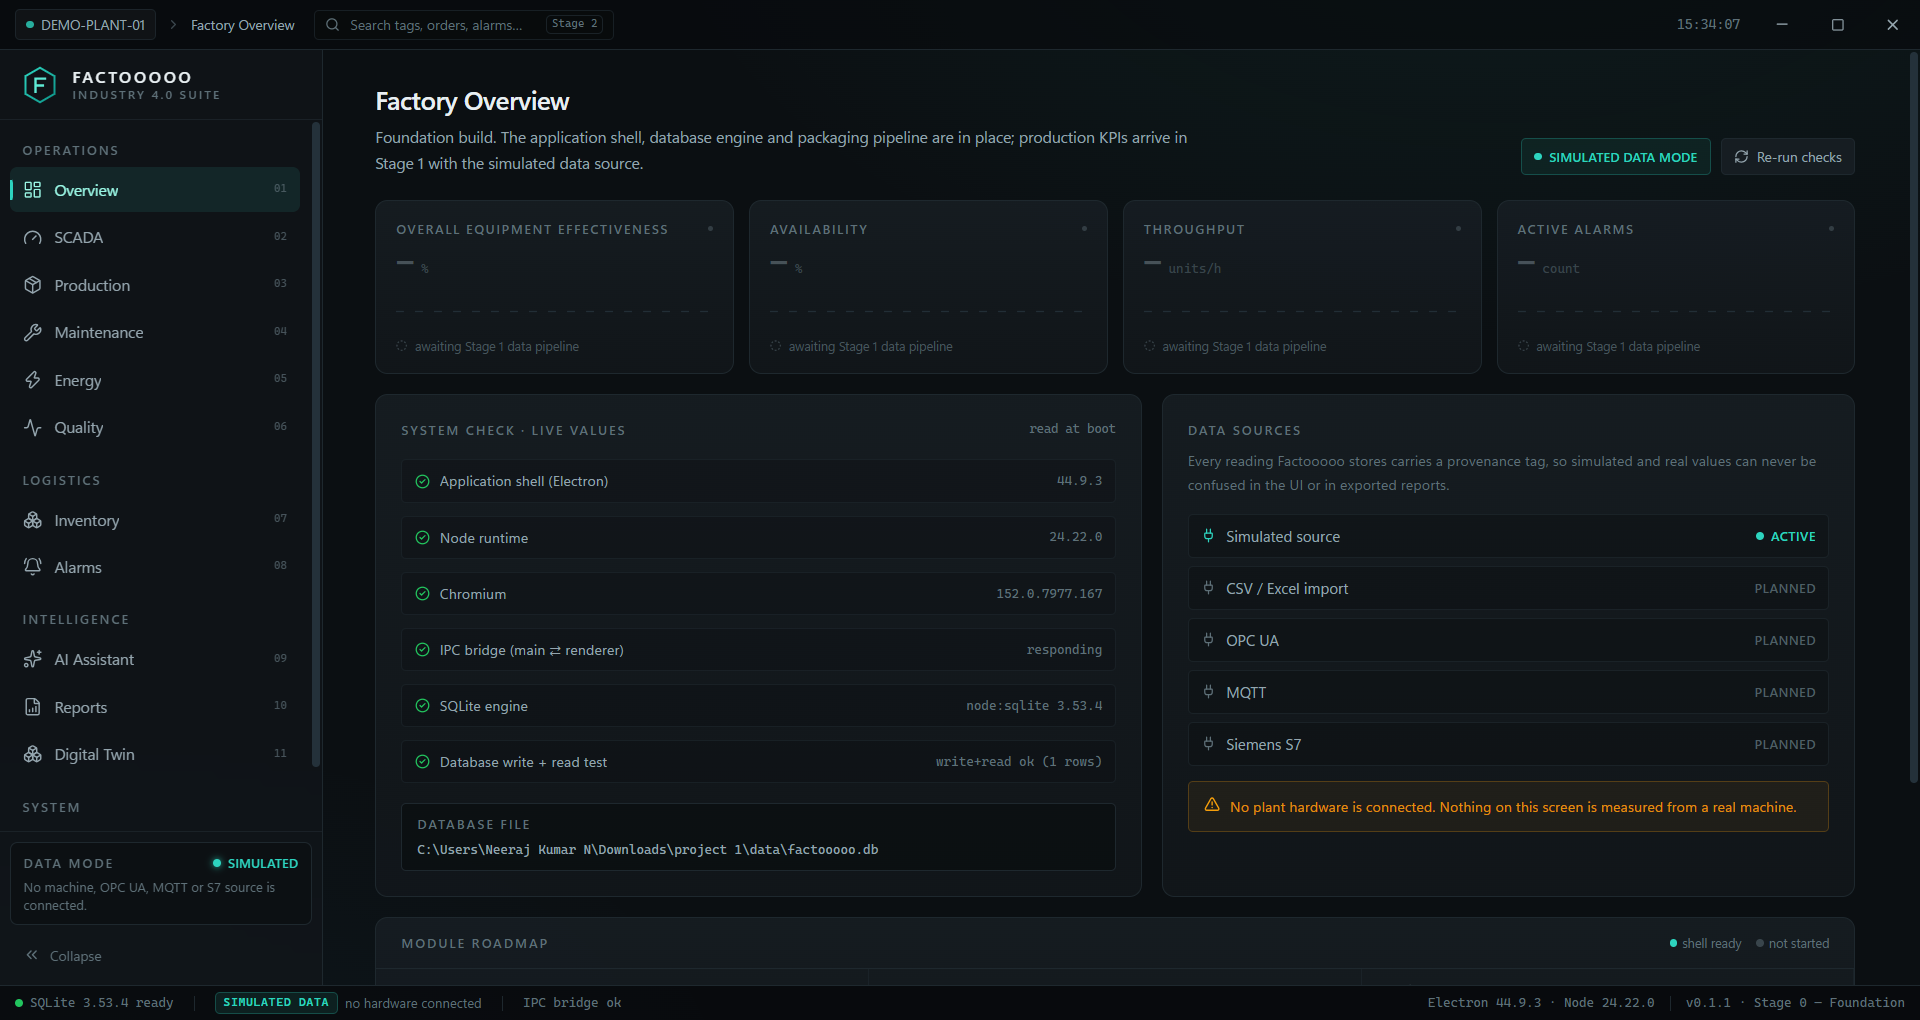
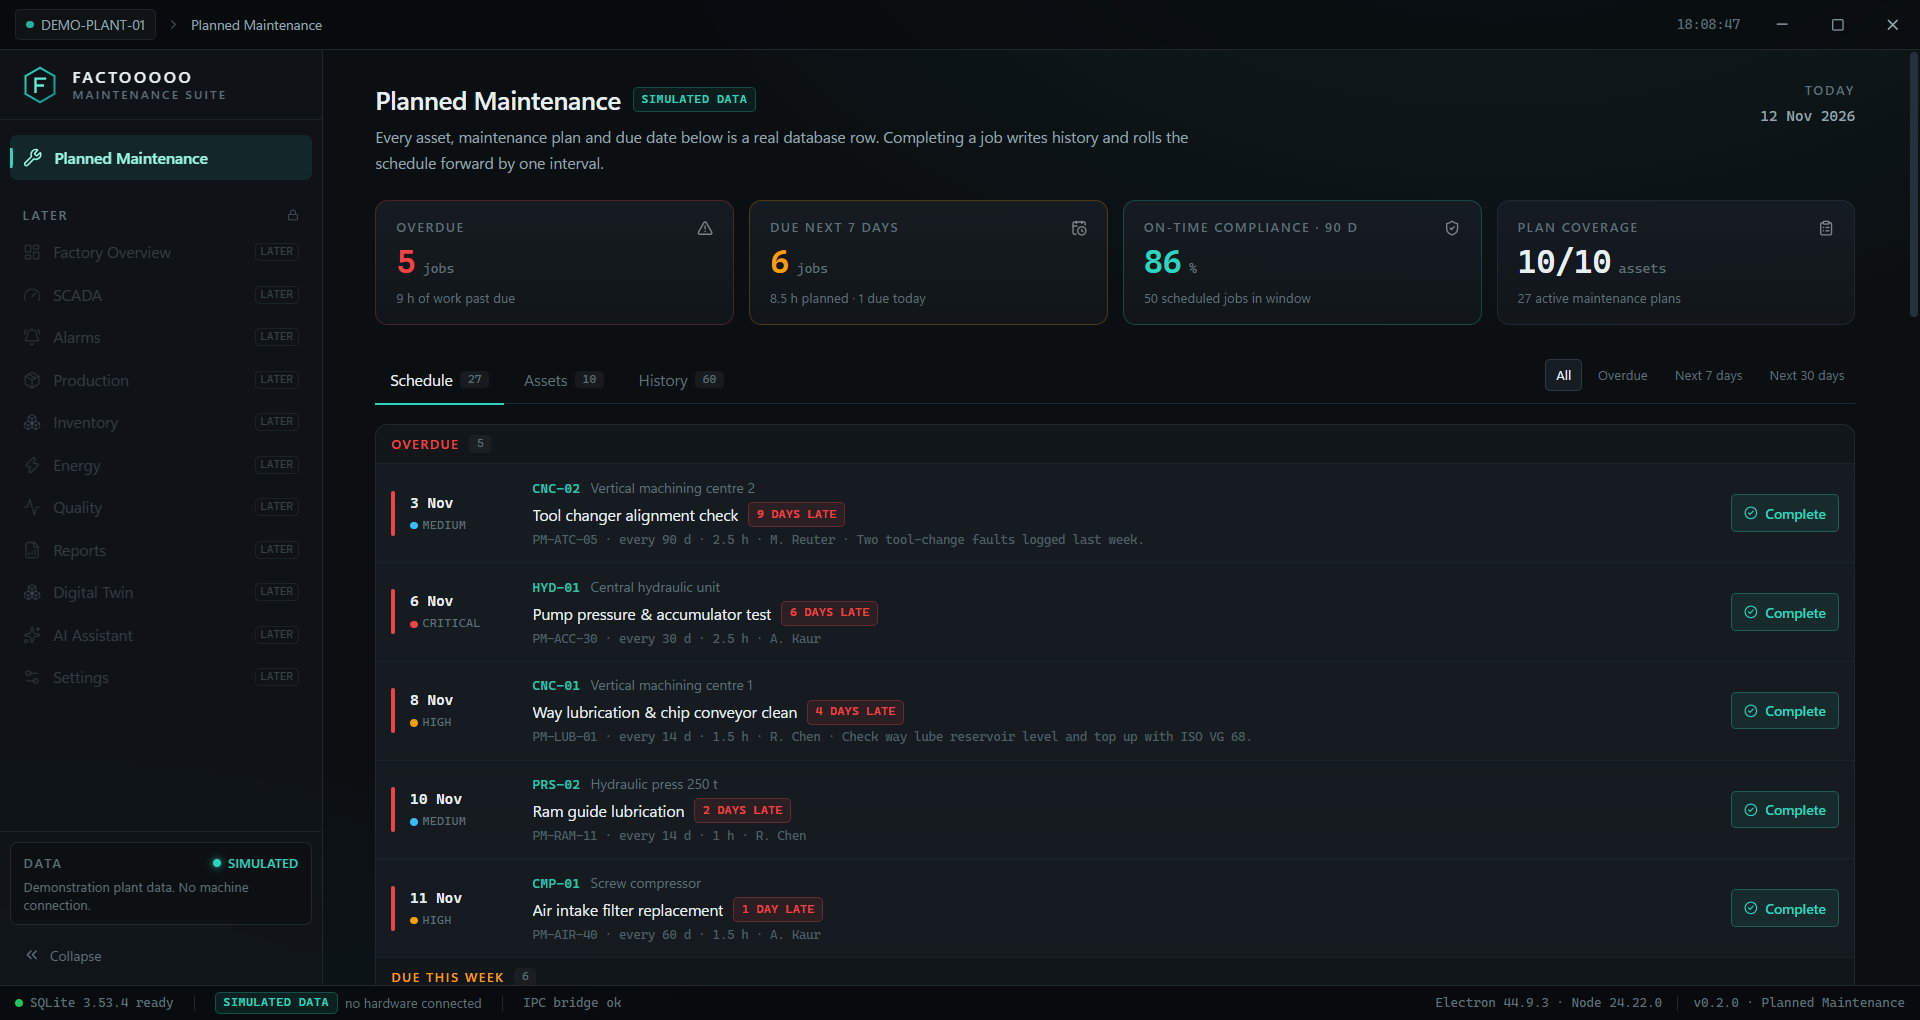
point the preview page at the maintenance build (v0.2.0)
The product narrowed to planned maintenance, so the page now leads with what
the app actually does, swaps the screenshot for the schedule screen, and
updates both download links, sizes and SHA-256 values to the 0.2.0 binaries.

diff --git a/index.html b/index.html
@@ -3,8 +3,8 @@
   <head>
     <meta charset="utf-8" />
     <meta name="viewport" content="width=device-width, initial-scale=1" />
-    <title>Factooooo — Preview Build</title>
-    <meta name="description" content="Download the Factooooo preview build for Windows 11. Industrial monitoring and management, built on Electron." />
+    <title>Factooooo — Planned Maintenance for Windows</title>
+    <meta name="description" content="Download Factooooo: a Windows application for planned maintenance. Assets, intervals, due dates and completion history in one focused screen." />
     <style>
       :root {
         --void: #07090b;
@@ -17,7 +17,6 @@
         --dim: #94a5ae;
         --mute: #5e7078;
         --teal: #2dd4bf;
-        --teal-soft: #99f6e4;
         --amber: #f59e0b;
       }
       * { box-sizing: border-box; }
@@ -32,7 +31,6 @@
         font-size: 15px;
         line-height: 1.55;
         -webkit-font-smoothing: antialiased;
-        min-height: 100vh;
       }
       .wrap { max-width: 940px; margin: 0 auto; padding: 44px 24px 64px; }
       .mono { font-family: 'Cascadia Mono', Consolas, ui-monospace, monospace; font-variant-numeric: tabular-nums; }
@@ -43,18 +41,15 @@
       .sub { font-size: 10.5px; letter-spacing: 0.19em; text-transform: uppercase; color: var(--mute); margin-top: 3px; }
       .chip {
         margin-left: auto; display: inline-flex; align-items: center; gap: 7px;
-        border: 1px solid rgba(245, 158, 11, 0.35); background: rgba(245, 158, 11, 0.09);
-        color: var(--amber); border-radius: 999px; padding: 5px 12px;
+        border: 1px solid rgba(45, 212, 191, 0.3); background: rgba(45, 212, 191, 0.08);
+        color: var(--teal); border-radius: 999px; padding: 5px 12px;
         font-size: 11px; font-weight: 600; letter-spacing: 0.08em; text-transform: uppercase;
       }
       .dot { width: 6px; height: 6px; border-radius: 50%; background: currentColor; }
 
-      h1 {
-        font-size: clamp(30px, 5vw, 44px); line-height: 1.1; letter-spacing: -0.025em;
-        margin: 44px 0 0; font-weight: 650;
-      }
+      h1 { font-size: clamp(30px, 5vw, 42px); line-height: 1.1; letter-spacing: -0.025em; margin: 44px 0 0; font-weight: 650; }
       h1 span { color: var(--teal); }
-      .lead { color: var(--dim); max-width: 620px; margin: 14px 0 0; font-size: 16px; }
+      .lead { color: var(--dim); max-width: 640px; margin: 14px 0 0; font-size: 16px; }
 
       .panel {
         background: linear-gradient(180deg, rgba(22, 29, 34, 0.92), rgba(17, 22, 26, 0.92));
@@ -62,17 +57,13 @@
       }
 
       .shots { margin-top: 32px; }
-      .shots img {
-        width: 100%; height: auto; display: block; border-radius: 12px;
-        border: 1px solid var(--line-strong);
-        box-shadow: 0 24px 60px -20px rgba(0, 0, 0, 0.75);
-      }
-      .cap { margin-top: 9px; font-size: 10.5px; color: var(--mute); letter-spacing: 0.04em; }
+      .shots img { width: 100%; height: auto; display: block; border-radius: 12px; border: 1px solid var(--line-strong); box-shadow: 0 24px 60px -20px rgba(0, 0, 0, 0.75); }
+      .cap { margin-top: 9px; font-size: 10.5px; color: var(--mute); }
 
       .downloads { display: grid; grid-template-columns: 1.1fr 0.9fr; gap: 14px; margin-top: 24px; }
-      @media (max-width: 720px) { .downloads { grid-template-columns: 1fr; } }
+      @media (max-width: 720px) { .downloads, .cols { grid-template-columns: 1fr; } }
       .dl { padding: 20px; display: flex; flex-direction: column; gap: 12px; }
-      .dl.primary { border-color: rgba(45, 212, 191, 0.32); box-shadow: 0 0 0 1px rgba(45, 212, 191, 0.06) inset; }
+      .dl.primary { border-color: rgba(45, 212, 191, 0.32); }
       .dl h2 { margin: 0; font-size: 13px; letter-spacing: 0.13em; text-transform: uppercase; color: var(--mute); font-weight: 600; }
       .dl p { margin: 0; font-size: 13.5px; color: var(--dim); }
 
@@ -92,7 +83,6 @@
       .hash b { color: var(--dim); font-weight: 500; }
 
       .cols { display: grid; grid-template-columns: 1fr 1fr; gap: 14px; margin-top: 14px; }
-      @media (max-width: 720px) { .cols { grid-template-columns: 1fr; } }
       .col { padding: 18px 20px; }
       .col h3 { margin: 0 0 10px; font-size: 11px; letter-spacing: 0.13em; text-transform: uppercase; color: var(--mute); font-weight: 600; }
       ul { margin: 0; padding: 0; list-style: none; }
@@ -104,12 +94,10 @@
         margin-top: 14px; padding: 20px; display: flex; gap: 13px; align-items: flex-start;
         border-color: rgba(245, 158, 11, 0.28); background: rgba(245, 158, 11, 0.055);
       }
-      .notice svg { flex: 0 0 auto; margin-top: 2px; }
       .notice p { margin: 0; font-size: 13px; color: #e7c891; }
       .notice b { color: var(--amber); }
 
       footer { margin-top: 34px; padding-top: 18px; border-top: 1px solid var(--line); font-size: 11.5px; color: var(--mute); display: flex; flex-wrap: wrap; gap: 8px 18px; }
-      code { font-family: 'Cascadia Mono', Consolas, monospace; font-size: 11.5px; color: var(--dim); }
     </style>
   </head>
   <body>
@@ -127,27 +115,27 @@
         </svg>
         <div>
           <div class="brand">FACTOOOOO</div>
-          <div class="sub">Industry 4.0 Suite</div>
+          <div class="sub">Planned Maintenance</div>
         </div>
-        <div class="chip"><span class="dot"></span> Preview · v0.1.1</div>
+        <div class="chip"><span class="dot"></span> Preview · v0.2.0</div>
       </header>
 
-      <h1>Industrial monitoring,<br /><span>built for the shop floor.</span></h1>
+      <h1>Know what's due,<br /><span>before it fails.</span></h1>
       <p class="lead">
-        A native Windows application for plant visibility: machine monitoring, production, maintenance,
-        energy, quality and alarms in one place — with a local database, no cloud account required.
+        A Windows application for planned maintenance. Every asset, interval and due date in one place —
+        with a real database behind it, no cloud account, and no machinery connection required to start.
       </p>
 
       <div class="shots">
-        <img src="screenshot.png" alt="Factooooo Factory Overview screen running on Windows" />
-        <div class="cap mono">Factory Overview — real build, simulated data</div>
+        <img src="screenshot.png" alt="Factooooo planned maintenance schedule running on Windows" />
+        <div class="cap mono">Schedule — real build, simulated plant data</div>
       </div>
 
       <div class="downloads">
         <div class="panel dl primary">
           <h2>Portable — recommended</h2>
-          <p>One file. Double-click to run. Nothing is installed, no admin rights, no shortcuts left behind.</p>
-          <a class="btn primary" href="https://github.com/wolfxwxjr/factooooo-preview/releases/download/v0.1.1/Factooooo-Portable-0.1.1-x64.exe">
+          <p>One file. Double-click to run. Nothing installed, no admin rights, no shortcuts left behind.</p>
+          <a class="btn primary" href="https://github.com/wolfxwxjr/factooooo-preview/releases/download/v0.2.0/Factooooo-Portable-0.2.0-x64.exe">
             Download for Windows 11 · 104 MB
           </a>
           <div class="meta">
@@ -155,20 +143,20 @@
             <span>No installation</span>
             <span>Data stays beside the .exe</span>
           </div>
-          <div class="hash"><b>SHA-256</b><br />6b4264c1b86dff93ff5e4a0164df8e6fc77c3ba0fb113a9e9ff835d01381bb02</div>
+          <div class="hash"><b>SHA-256</b><br />40c8b3da07dafcc817b1456e851f4630afd73782b49bfa2d54be6e1faa63009f</div>
         </div>
 
         <div class="panel dl">
           <h2>One-click installer</h2>
-          <p>Installs for your user, launches itself, adds a desktop shortcut. Starts faster than the portable build afterwards.</p>
-          <a class="btn secondary" href="https://github.com/wolfxwxjr/factooooo-preview/releases/download/v0.1.1/Factooooo-Setup-0.1.1-x64.exe">
+          <p>Installs for your user, launches itself, adds a desktop shortcut. Starts faster afterwards.</p>
+          <a class="btn secondary" href="https://github.com/wolfxwxjr/factooooo-preview/releases/download/v0.2.0/Factooooo-Setup-0.2.0-x64.exe">
             Download installer · 115 MB
           </a>
           <div class="meta">
             <span>Per-user install</span>
             <span>No admin rights</span>
           </div>
-          <div class="hash"><b>SHA-256</b><br />b714144a199c25a2e08d2ad0d5a55a456547b9edae5e54acd0a1ee60e51fcd8d</div>
+          <div class="hash"><b>SHA-256</b><br />a8305712f62884b8ebf51f65c94767d67a3f353c9a7c9e67c1a32b01251d2e99</div>
         </div>
       </div>
 
@@ -176,38 +164,38 @@
         <div class="panel col">
           <h3>Working in this build</h3>
           <ul>
-            <li>Native desktop shell — Electron 44, React 19</li>
-            <li>12 module screens with collapsible navigation</li>
-            <li>Local SQLite database, verified write and read</li>
-            <li>Live system check panel showing real runtime values</li>
-            <li>Automated self-test: 9 of 9 checks passing</li>
+            <li>Schedule with overdue, due-this-week and upcoming sections</li>
+            <li>Asset register with criticality and next service date</li>
+            <li>Completion history with on-time vs late outcome</li>
+            <li>Complete a job: writes history, rolls the interval forward</li>
+            <li>KPIs computed from the database — 90-day on-time compliance included</li>
+            <li>Local SQLite database, nothing leaves your PC</li>
           </ul>
         </div>
         <div class="panel col off">
-          <h3>Not built yet</h3>
+          <h3>Deliberately not here yet</h3>
           <ul>
-            <li>Production KPIs and OEE figures</li>
-            <li>SCADA tag monitoring and trends</li>
-            <li>Maintenance, energy, quality, inventory</li>
+            <li>SCADA and live machine monitoring</li>
+            <li>Production orders and OEE</li>
+            <li>Energy, quality, inventory</li>
             <li>Alarms, reports, digital twin, AI assistant</li>
-            <li>Any connection to real machinery</li>
+            <li>Any connection to real machinery — data is simulated</li>
           </ul>
         </div>
       </div>
 
       <div class="panel notice">
-        <svg width="15" height="15" viewBox="0 0 24 24" fill="none" stroke="#f59e0b" stroke-width="2" stroke-linecap="round">
+        <svg width="15" height="15" viewBox="0 0 24 24" fill="none" stroke="#f59e0b" stroke-width="2" stroke-linecap="round" aria-hidden="true">
           <path d="M12 9v4M12 17h.01M10.3 3.9 1.8 18a2 2 0 0 0 1.7 3h17a2 2 0 0 0 1.7-3L13.7 3.9a2 2 0 0 0-3.4 0Z" />
         </svg>
         <p>
-          <b>Windows will warn you.</b> This build is unsigned (no code-signing certificate), so SmartScreen
-          shows "Windows protected your PC". Click <b>More info</b> → <b>Run anyway</b>.
-          The SHA-256 above lets you confirm the file is unmodified.
+          <b>Windows will warn you.</b> This build is unsigned, so SmartScreen shows "Windows protected your PC".
+          Click <b>More info</b> → <b>Run anyway</b>. The SHA-256 above lets you confirm the file is unmodified.
         </p>
       </div>
 
       <footer>
-        <span>Preview build — figures and data are simulated, no machinery is connected.</span>
+        <span>Preview build — plant data is simulated, no machinery is connected.</span>
         <span>Source is private. Binaries distributed here for testing.</span>
       </footer>
     </div>

diff --git a/README.md b/README.md
@@ -17,13 +17,17 @@ Landing page: https://wolfxwxjr.github.io/factooooo-preview/
 
 ## What this build is
 
-A **foundation preview**: the desktop shell, local SQLite database and Windows packaging are real and
-tested. The individual modules (SCADA, production/MES, maintenance, energy, quality, inventory, alarms,
-reports, digital twin, AI assistant) are navigable screens that state plainly they are not implemented —
-they contain no fabricated figures.
+A **planned-maintenance workspace**. Real, working parts: an asset register, maintenance plans with
+intervals, a derived schedule (overdue / due this week / upcoming), completion history, and a
+**Complete** action that writes history and rolls the next due date forward. KPIs such as 90-day
+on-time compliance are computed from those rows.
 
-No machine, OPC UA, MQTT or Siemens S7 connection exists in this build. Everything is labelled
-**SIMULATED DATA**.
+The wider industrial suite (SCADA, production/MES, energy, quality, inventory, alarms, reports,
+digital twin, AI assistant) is still visible in the sidebar but **disabled** — parked until this
+workflow is finished. Those entries do not navigate anywhere and contain no invented figures.
+
+No machine, OPC UA, MQTT or Siemens S7 connection exists in this build. Plant data is simulated and
+labelled **SIMULATED DATA** throughout.
 
 ## Trust
 
